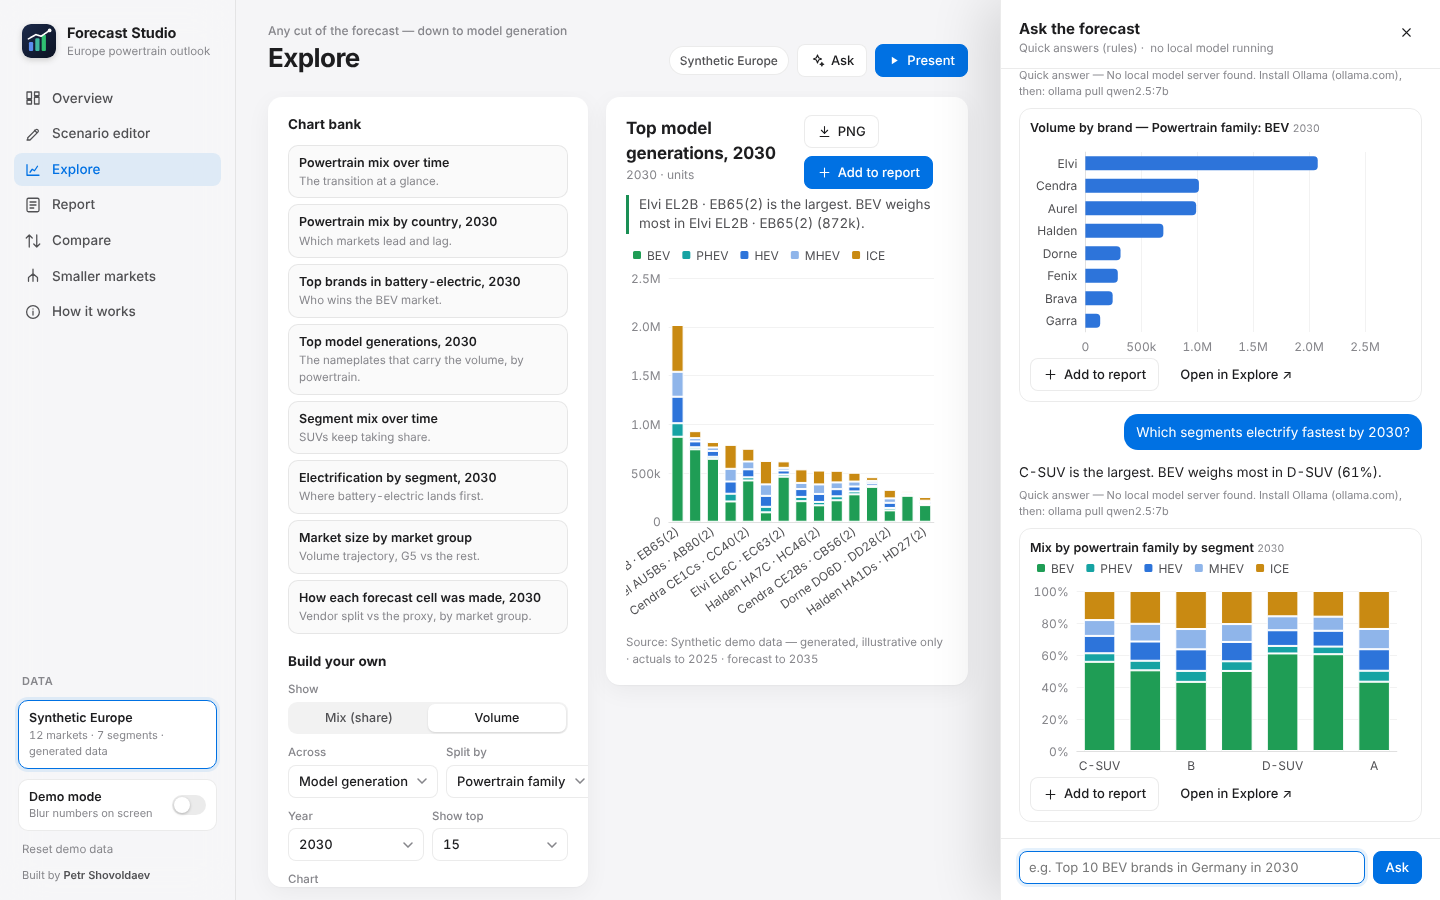
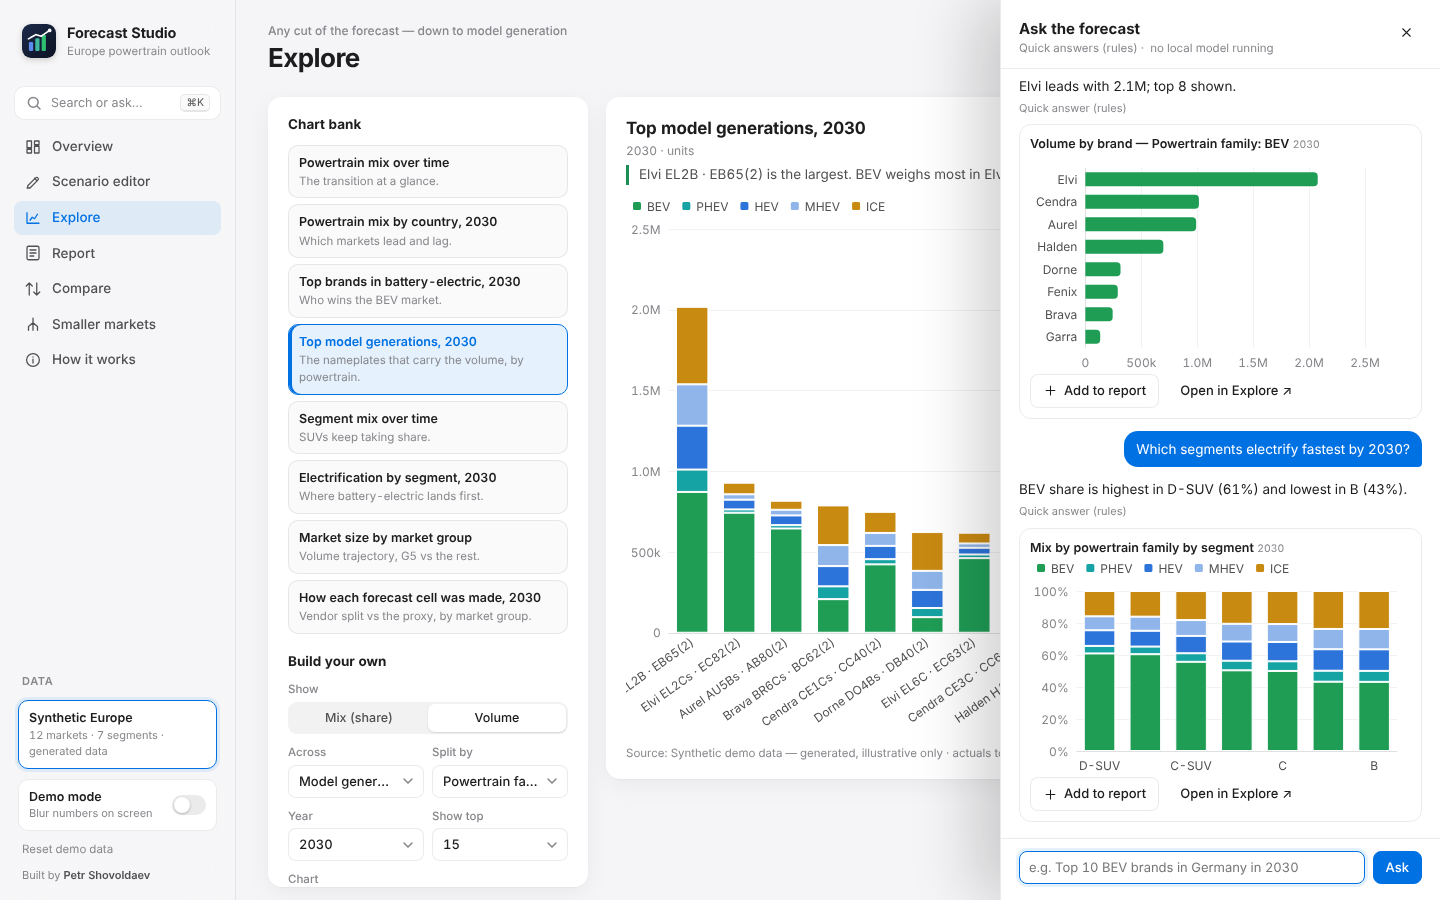
Refresh Forecast Studio screenshots; add command palette and dark mode
Claude-Session: https://claude.ai/code/session_01EBWT1AY9MRQvMQTiV2zY84

diff --git a/README.md b/README.md
@@ -35,7 +35,8 @@ spreadsheet. Shown here on synthetic data.
 | **Compare** | Scenario vs base — and release vs release: which markets a new vendor forecast upgraded or downgraded. |
 | **Smaller markets** | The method on this page, run on the real data: coverage, each country's mix against the block, and the iron-rule check. |
 | **Demo mode** | One key blurs every number on screen (KPIs, tables, tooltips, axes, numbers in sentences) while shapes stay visible — on by default for confidential data. |
-| **Present** | A 9-step guided tour with talking points, for walking a stakeholder through it. |
+| **Present** | A 12-step guided tour with talking points, for walking a stakeholder through it. |
+| **⌘K** | One search box to jump to any view, run any analysis, or send a question to Ask — no menus to hunt through during a call. |
 
 <table><tr>
 <td><img src="assets/app/studio_explore.png" alt="Explore"><br><sub>Explore: chart bank and builder, down to model generation</sub></td>
@@ -46,6 +47,9 @@ spreadsheet. Shown here on synthetic data.
 </tr><tr>
 <td><img src="assets/app/studio_demo_mode.png" alt="Demo mode"><br><sub>Demo mode: numbers hidden, shapes kept</sub></td>
 <td><img src="assets/app/studio_compare.png" alt="Compare scenarios"><br><sub>Compare: what a scenario changes</sub></td>
+</tr><tr>
+<td><img src="assets/app/studio_palette.png" alt="Command palette"><br><sub>⌘K: jump, analyse or ask from one box</sub></td>
+<td><img src="assets/app/studio_overview_dark.png" alt="Dark mode"><br><sub>Follows the system light / dark setting</sub></td>
 </tr></table>
 
 **Under the hood.** Each forecast release is packaged into a compact, documented **data store**
